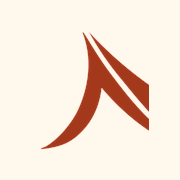
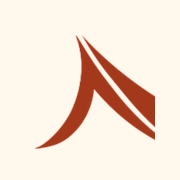
Use the roof-and-wordmark lockup in brand red.
There is no official red version of the full lockup in the brand folder, so the green Logo_V2_1 art was recolored to #A4381B. The header shows the roof with the wordmark, and the favicon uses the roof mark, centered so it stays clear at small sizes.

Changed region(s): [[0.1944, 0.1667, 0.8611, 0.8333]]

diff --git a/404.html b/404.html
@@ -31,7 +31,7 @@
   <header class="site-header">
     <div class="header-bar">
       <a class="logo" href="/">
-        <img src="/assets/img/logo.webp" alt="Mi Granja Events &amp; Leisure" width="1600" height="569">
+        <img src="/assets/img/logo.webp" alt="Mi Granja Events &amp; Leisure" width="1309" height="1000">
       </a>
       <button class="nav-toggle" type="button" aria-expanded="false" aria-controls="site-nav">
         <span class="sr-only">Menu</span>

diff --git a/about/index.html b/about/index.html
@@ -31,7 +31,7 @@
   <header class="site-header">
     <div class="header-bar">
       <a class="logo" href="/">
-        <img src="/assets/img/logo.webp" alt="Mi Granja Events &amp; Leisure" width="1600" height="569">
+        <img src="/assets/img/logo.webp" alt="Mi Granja Events &amp; Leisure" width="1309" height="1000">
       </a>
       <button class="nav-toggle" type="button" aria-expanded="false" aria-controls="site-nav">
         <span class="sr-only">Menu</span>

diff --git a/blog/how-to-choose-your-wedding-venue/index.html b/blog/how-to-choose-your-wedding-venue/index.html
@@ -58,7 +58,7 @@
   <header class="site-header">
     <div class="header-bar">
       <a class="logo" href="/">
-        <img src="/assets/img/logo.webp" alt="Mi Granja Events &amp; Leisure" width="1600" height="569">
+        <img src="/assets/img/logo.webp" alt="Mi Granja Events &amp; Leisure" width="1309" height="1000">
       </a>
       <button class="nav-toggle" type="button" aria-expanded="false" aria-controls="site-nav">
         <span class="sr-only">Menu</span>

diff --git a/blog/index.html b/blog/index.html
@@ -31,7 +31,7 @@
   <header class="site-header">
     <div class="header-bar">
       <a class="logo" href="/">
-        <img src="/assets/img/logo.webp" alt="Mi Granja Events &amp; Leisure" width="1600" height="569">
+        <img src="/assets/img/logo.webp" alt="Mi Granja Events &amp; Leisure" width="1309" height="1000">
       </a>
       <button class="nav-toggle" type="button" aria-expanded="false" aria-controls="site-nav">
         <span class="sr-only">Menu</span>

diff --git a/blog/wedding-planning-checklist/index.html b/blog/wedding-planning-checklist/index.html
@@ -58,7 +58,7 @@
   <header class="site-header">
     <div class="header-bar">
       <a class="logo" href="/">
-        <img src="/assets/img/logo.webp" alt="Mi Granja Events &amp; Leisure" width="1600" height="569">
+        <img src="/assets/img/logo.webp" alt="Mi Granja Events &amp; Leisure" width="1309" height="1000">
       </a>
       <button class="nav-toggle" type="button" aria-expanded="false" aria-controls="site-nav">
         <span class="sr-only">Menu</span>

diff --git a/contact/index.html b/contact/index.html
@@ -31,7 +31,7 @@
   <header class="site-header">
     <div class="header-bar">
       <a class="logo" href="/">
-        <img src="/assets/img/logo.webp" alt="Mi Granja Events &amp; Leisure" width="1600" height="569">
+        <img src="/assets/img/logo.webp" alt="Mi Granja Events &amp; Leisure" width="1309" height="1000">
       </a>
       <button class="nav-toggle" type="button" aria-expanded="false" aria-controls="site-nav">
         <span class="sr-only">Menu</span>

diff --git a/expo-inquiry-post-submit/index.html b/expo-inquiry-post-submit/index.html
@@ -31,7 +31,7 @@
   <header class="site-header">
     <div class="header-bar">
       <a class="logo" href="/">
-        <img src="/assets/img/logo.webp" alt="Mi Granja Events &amp; Leisure" width="1600" height="569">
+        <img src="/assets/img/logo.webp" alt="Mi Granja Events &amp; Leisure" width="1309" height="1000">
       </a>
       <button class="nav-toggle" type="button" aria-expanded="false" aria-controls="site-nav">
         <span class="sr-only">Menu</span>

diff --git a/faqs/index.html b/faqs/index.html
@@ -94,7 +94,7 @@
   <header class="site-header">
     <div class="header-bar">
       <a class="logo" href="/">
-        <img src="/assets/img/logo.webp" alt="Mi Granja Events &amp; Leisure" width="1600" height="569">
+        <img src="/assets/img/logo.webp" alt="Mi Granja Events &amp; Leisure" width="1309" height="1000">
       </a>
       <button class="nav-toggle" type="button" aria-expanded="false" aria-controls="site-nav">
         <span class="sr-only">Menu</span>

diff --git a/gallery/index.html b/gallery/index.html
@@ -31,7 +31,7 @@
   <header class="site-header">
     <div class="header-bar">
       <a class="logo" href="/">
-        <img src="/assets/img/logo.webp" alt="Mi Granja Events &amp; Leisure" width="1600" height="569">
+        <img src="/assets/img/logo.webp" alt="Mi Granja Events &amp; Leisure" width="1309" height="1000">
       </a>
       <button class="nav-toggle" type="button" aria-expanded="false" aria-controls="site-nav">
         <span class="sr-only">Menu</span>

diff --git a/home/index.html b/home/index.html
@@ -32,7 +32,7 @@
   <header class="site-header">
     <div class="header-bar">
       <a class="logo" href="/">
-        <img src="/assets/img/logo.webp" alt="Mi Granja Events &amp; Leisure" width="1600" height="569">
+        <img src="/assets/img/logo.webp" alt="Mi Granja Events &amp; Leisure" width="1309" height="1000">
       </a>
       <button class="nav-toggle" type="button" aria-expanded="false" aria-controls="site-nav">
         <span class="sr-only">Menu</span>

diff --git a/index.html b/index.html
@@ -53,7 +53,7 @@
   <header class="site-header">
     <div class="header-bar">
       <a class="logo" href="/">
-        <img src="/assets/img/logo.webp" alt="Mi Granja Events &amp; Leisure" width="1600" height="569">
+        <img src="/assets/img/logo.webp" alt="Mi Granja Events &amp; Leisure" width="1309" height="1000">
       </a>
       <button class="nav-toggle" type="button" aria-expanded="false" aria-controls="site-nav">
         <span class="sr-only">Menu</span>

diff --git a/packages/index.html b/packages/index.html
@@ -31,7 +31,7 @@
   <header class="site-header">
     <div class="header-bar">
       <a class="logo" href="/">
-        <img src="/assets/img/logo.webp" alt="Mi Granja Events &amp; Leisure" width="1600" height="569">
+        <img src="/assets/img/logo.webp" alt="Mi Granja Events &amp; Leisure" width="1309" height="1000">
       </a>
       <button class="nav-toggle" type="button" aria-expanded="false" aria-controls="site-nav">
         <span class="sr-only">Menu</span>
